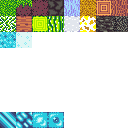
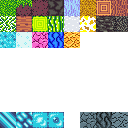
corais adicionados + conserto no sistema de umidade

Changed region(s): [[0.625, 0.875, 1.0, 1.0], [0.25, 0.25, 0.625, 0.375]]

diff --git a/gdx-jogo/src/com/minimine/utils/ruidos/Simplex2D.java b/gdx-jogo/src/com/minimine/utils/ruidos/Simplex2D.java
@@ -54,14 +54,29 @@ public class Simplex2D {
             maximo += amplitude;
 
             return total / maximo;
-        }
-		if(oitavas == 3) {
+        } else if(oitavas == 3) {
             total += ruido(x * frequencia, y * frequencia) * amplitude;
             maximo += amplitude;
             amplitude *= persistencia;
             frequencia *= lacunaridade;
 
             total += ruido(x * frequencia, y * frequencia) * amplitude;
+            maximo += amplitude;
+			
+			total += ruido(x * frequencia, y * frequencia) * amplitude;
+            maximo += amplitude;
+
+            return total / maximo;
+        } else if(oitavas == 4) {
+            total += ruido(x * frequencia, y * frequencia) * amplitude;
+            maximo += amplitude;
+            amplitude *= persistencia;
+            frequencia *= lacunaridade;
+
+            total += ruido(x * frequencia, y * frequencia) * amplitude;
+            maximo += amplitude;
+
+			total += ruido(x * frequencia, y * frequencia) * amplitude;
             maximo += amplitude;
 			
 			total += ruido(x * frequencia, y * frequencia) * amplitude;

diff --git a/gdx-jogo/src/com/minimine/mundo/Mundo.java b/gdx-jogo/src/com/minimine/mundo/Mundo.java
@@ -96,7 +96,10 @@ public class Mundo extends Objeto {
 		Bloco.blocos.add(new Bloco("cascalho", "cascalho"));
 		Bloco.blocos.add(new Bloco("gelo", "gelo"));
 		Bloco.blocos.add(new Bloco("neve", "neve"));
-
+		Bloco.blocos.add(new Bloco("coral_rosa", "coral_rosa"));
+		Bloco.blocos.add(new Bloco("coral_azul", "coral_azul"));
+		Bloco.blocos.add(new Bloco("coral_amarelo", "coral_amarelo"));
+		
 		Bloco.addSom("grama", "grama_1", "terra_1", "terra_2", "terra_3");
 		Bloco.addSom("terra", "terra_1", "terra_2", "terra_3");
 		Bloco.addSom("areia", "terra_1", "terra_2", "terra_3");

diff --git a/gdx-jogo/src/com/minimine/graficos/Texturas.java b/gdx-jogo/src/com/minimine/graficos/Texturas.java
@@ -40,6 +40,9 @@ public class Texturas {
 			atlas.put("cascalho", new TextureRegion(blocos, 112, 16, 16, 16));
 			atlas.put("gelo", new TextureRegion(blocos, 0, 32, 16, 16));
 			atlas.put("neve", new TextureRegion(blocos, 16, 32, 16, 16));
+			atlas.put("coral_rosa", new TextureRegion(blocos, 32, 32, 16, 16));
+			atlas.put("coral_azul", new TextureRegion(blocos, 48, 32, 16, 16));
+			atlas.put("coral_amarelo", new TextureRegion(blocos, 64, 32, 16, 16));
 			
 			// animações:
 			atlas.put("agua_a1", new TextureRegion(agua, 0, 0, 16, 16));

diff --git a/gdx-jogo/src/com/minimine/mundo/geracao/GeradorTerreno.java b/gdx-jogo/src/com/minimine/mundo/geracao/GeradorTerreno.java
@@ -100,7 +100,7 @@ public class GeradorTerreno {
         temp -= Math.max(0, (altura - nivelMar) * 0.004);
         temp += (celularVal - 0.3) * 0.2;
 
-        double umidade = Math.exp(-Math.max(0, base) * 2.0);
+		double umidade = ruido.ruidoFractal(x * 0.0005, z * 0.0005, 2, 0.5, 2.0) * 0.5 + 0.5;
         double varClima = ruido.ruidoFractal(x * 0.0003, z * 0.0003, 2, 0.6, 2.0);
         umidade += varClima * 0.3;
         umidade += (1.0 - celularVal) * 0.15;
